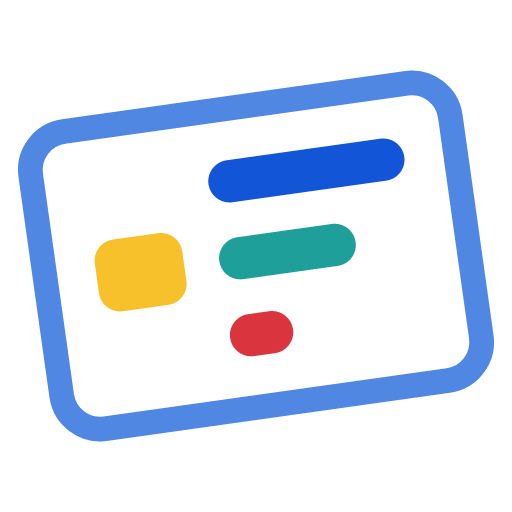
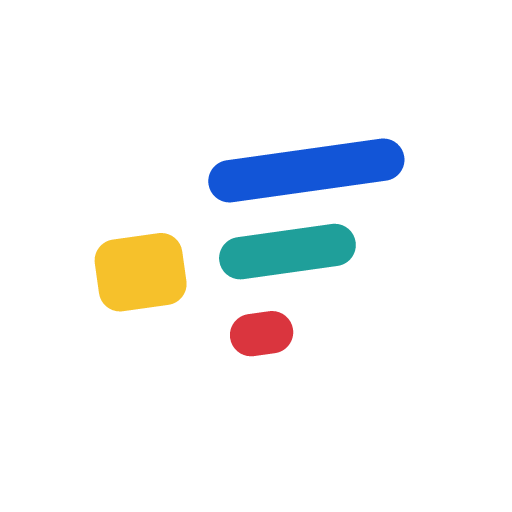
feat: bordo blu solo su chiaro, icona app su sfondo blu

Changed region(s): [[0.0312, 0.125, 0.9688, 0.875]]

diff --git a/BACKLOG.md b/BACKLOG.md
@@ -473,7 +473,7 @@ Definire in vettoriale il logo 2.0 partendo dal Concept 4, con libertà di migli
 
 Il logo non dipende dal bootstrap del monorepo. Usare gli originali e produrre nuovi asset separati, senza sovrascrivere i riferimenti.
 
-**Avanzamento del 2026-09-26:** mandato owner ricevuto. Una prima vettorializzazione fedele al concept, con bordo destro continuo e icona generica senza tile iOS, è stata superata dall'indicazione owner di migliorare il logo senza vincolo di fedeltà (D141). Dopo quattro giri di proposte (tessera sola, tessera con F, chip realistico e astratto) l'owner ha approvato l'icona base: tessera inclinata di 8°, card bianca 480×340 raggio 44 con contorno blu `#1A4FA6` spesso 28 e margini interni di 44 (il riquadro blu esterno è stato scartato), chip giallo pieno astratto a sinistra come sulla tessera e righe che leggono come una F: blu 224, verde 156 e rossa corta 72 su spessore 48, con margini uguali (`assets/brand/fiscalbay-icon.svg`). Contrasto 3:1 sulla card per blu (5,97), rossa (4,33) e verde, portato da `#21AAA4` a `#1F9F9A` (3,04); restano sotto soglia, per scelta motivata, il chip giallo `#F6C12B` (1,57, il 3:1 richiederebbe un senape) e il contorno blu sul fondo scuro (2,08, la card bianca garantisce la sagoma). Per le dimensioni piccole due versioni dritte disegnate sulla griglia dei pixel, perché inclinazione e coordinate libere producono bordi a mezzi toni: `fiscalbay-icon-32.svg` e `fiscalbay-icon-16.svg`, dove la riga rossa è un solo pixel. Il riquadro blu esterno è stato poi scartato su richiesta owner a favore della sola tessera con contorno. Wordmark Inter ExtraBold scelto su tre pesi; delle due prove successive l'owner ha adottato il contorno `#4F87E3` nel tema scuro e scartato il puntino della «i» a forma di chip. Set finale prodotto in `assets/brand/` ed elencato in [riferimenti brand](docs/brand/REFERENCES.md#asset-approvati), con provenienza e licenza di Inter. Restano l'approvazione owner del set e la sostituzione del logo 1.0 nel branding Google OAuth, in Stripe e nei keyset eBay.
+**Avanzamento del 2026-09-26:** mandato owner ricevuto. Una prima vettorializzazione fedele al concept, con bordo destro continuo e icona generica senza tile iOS, è stata superata dall'indicazione owner di migliorare il logo senza vincolo di fedeltà (D141). Dopo quattro giri di proposte (tessera sola, tessera con F, chip realistico e astratto) l'owner ha approvato l'icona base: tessera inclinata di 8°, card bianca 480×340 raggio 44 con contorno blu `#1A4FA6` spesso 28 e margini interni di 44 (il riquadro blu esterno è stato scartato), chip giallo pieno astratto a sinistra come sulla tessera e righe che leggono come una F: blu 224, verde 156 e rossa corta 72 su spessore 48, con margini uguali (`assets/brand/fiscalbay-icon.svg`). Contrasto 3:1 sulla card per blu (5,97), rossa (4,33) e verde, portato da `#21AAA4` a `#1F9F9A` (3,04); restano sotto soglia, per scelta motivata, il chip giallo `#F6C12B` (1,57, il 3:1 richiederebbe un senape) Per le dimensioni piccole due versioni dritte disegnate sulla griglia dei pixel, perché inclinazione e coordinate libere producono bordi a mezzi toni: `fiscalbay-icon-32.svg` e `fiscalbay-icon-16.svg`, dove la riga rossa è un solo pixel. Il riquadro blu esterno è stato poi scartato su richiesta owner a favore della sola tessera con contorno. Wordmark Inter ExtraBold scelto su tre pesi; scartato il puntino della «i» a forma di chip. Su decisione owner il contorno blu resta solo nel logo e nell'icona su fondo chiaro: nel tema scuro la carta è tutta bianca e nelle icone per app, iOS e Telegram il blu diventa lo sfondo (`fiscalbay-app-icon.svg`, che sostituisce l'avatar). Set finale prodotto in `assets/brand/` ed elencato in [riferimenti brand](docs/brand/REFERENCES.md#asset-approvati), con provenienza e licenza di Inter. Restano l'approvazione owner del set e la sostituzione del logo 1.0 nel branding Google OAuth, in Stripe e nei keyset eBay.
 
 ### M1-06 — Design system e catalogo candidati
 

diff --git a/docs/brand/REFERENCES.md b/docs/brand/REFERENCES.md
@@ -50,14 +50,14 @@ Sorgenti in `assets/brand/`, esportazioni PNG e `favicon.ico` in `assets/brand/e
 
 | File | Uso |
 |---|---|
-| `fiscalbay-icon.svg` / `fiscalbay-icon-dark.svg` | Icona da 48 px in su, su fondo chiaro / scuro |
+| `fiscalbay-icon.svg` / `fiscalbay-icon-dark.svg` | Icona da 48 px in su: su chiaro con contorno blu, su scuro carta tutta bianca |
 | `fiscalbay-icon-32.svg`, `fiscalbay-icon-16.svg` | Icona dritta su griglia dei pixel per 24–47 px e 16 px |
-| `favicon.svg` | Favicon su griglia 32, contorno chiaro con `prefers-color-scheme: dark` |
+| `favicon.svg` | Favicon su griglia 32, carta tutta bianca con `prefers-color-scheme: dark` |
 | `fiscalbay-logo.svg` / `fiscalbay-logo-dark.svg` | Logo orizzontale su fondo chiaro / scuro |
 | `fiscalbay-icon-mono.svg`, `fiscalbay-logo-mono.svg` | Monocromo in `currentColor` |
-| `fiscalbay-avatar.svg` | Avatar Telegram, fondo pieno con margine per il ritaglio circolare |
+| `fiscalbay-app-icon.svg` | Icona per app, iOS, Android e Telegram: carta bianca su quadrato blu pieno; maschera e cerchio li applica la piattaforma, la carta resta nella zona sicura dell'80% |
 
-Colori: contorno `#1A4FA6` (scuro `#4F87E3`), card `#FFFFFF`, chip `#F6C12B`, righe `#1255D7`, `#1F9F9A`, `#DA353E`; wordmark `Fiscal` `#001431` e `Bay` `#1A4FA6` (scuro `#FFFFFF` e `#4F87E3`). Le righe e il contorno raggiungono 3:1 sulla card o sul fondo; il chip giallo e il contorno chiaro sul fondo scuro restano sotto per scelta motivata nel backlog.
+Il contorno blu esiste solo nel logo e nell'icona su fondo chiaro; su fondo scuro la carta è tutta bianca e nelle icone per app il blu diventa lo sfondo. Colori: contorno e sfondo app `#1A4FA6`, card `#FFFFFF`, chip `#F6C12B`, righe `#1255D7`, `#1F9F9A`, `#DA353E`; wordmark `Fiscal` `#001431` e `Bay` `#1A4FA6` (scuro `#FFFFFF` e `#4F87E3`). Le righe raggiungono 3:1 sulla card; il chip giallo resta sotto per scelta motivata nel backlog.
 
 Wordmark: Inter ExtraBold 4.x (The Inter Project Authors, SIL Open Font License 1.1, pacchetto `@fontsource/inter` 5), convertito in tracciati con spaziatura −1,5%; il file del font non è distribuito. Maiuscole alte il 42% della tessera, distanza dall'icona pari a metà altezza maiuscole.
 
